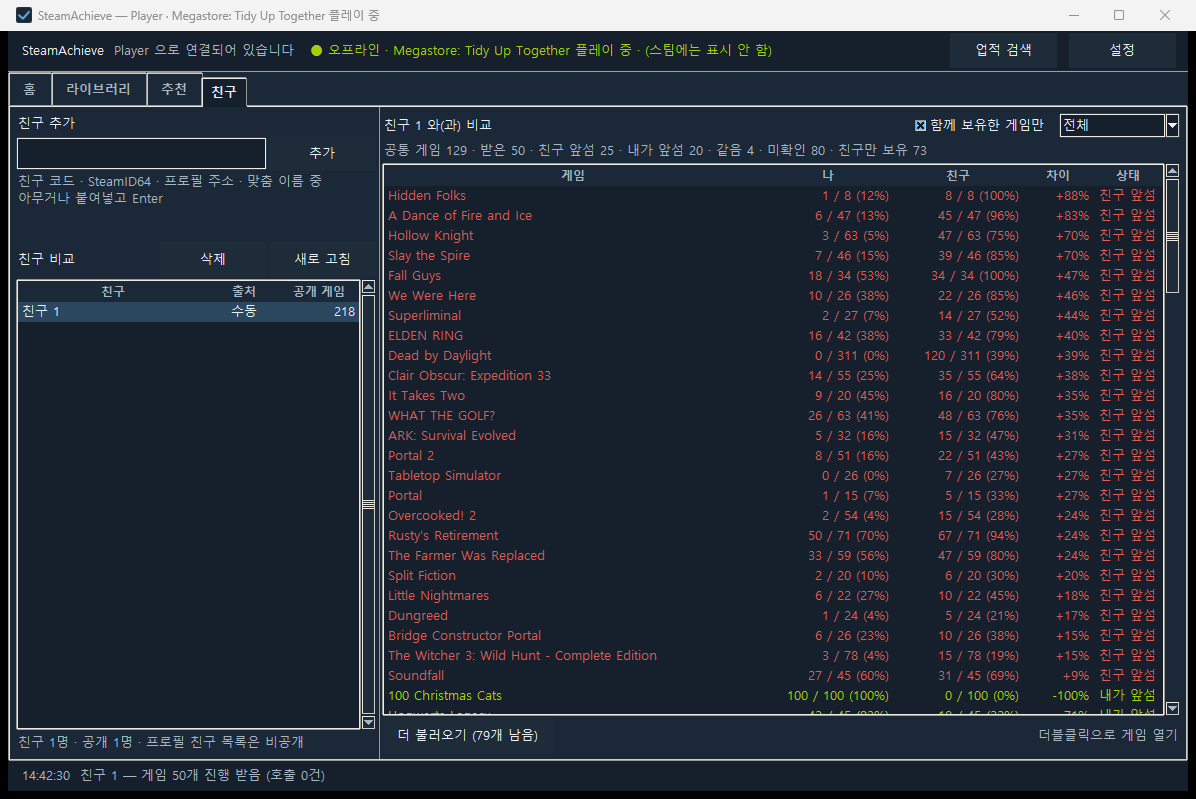
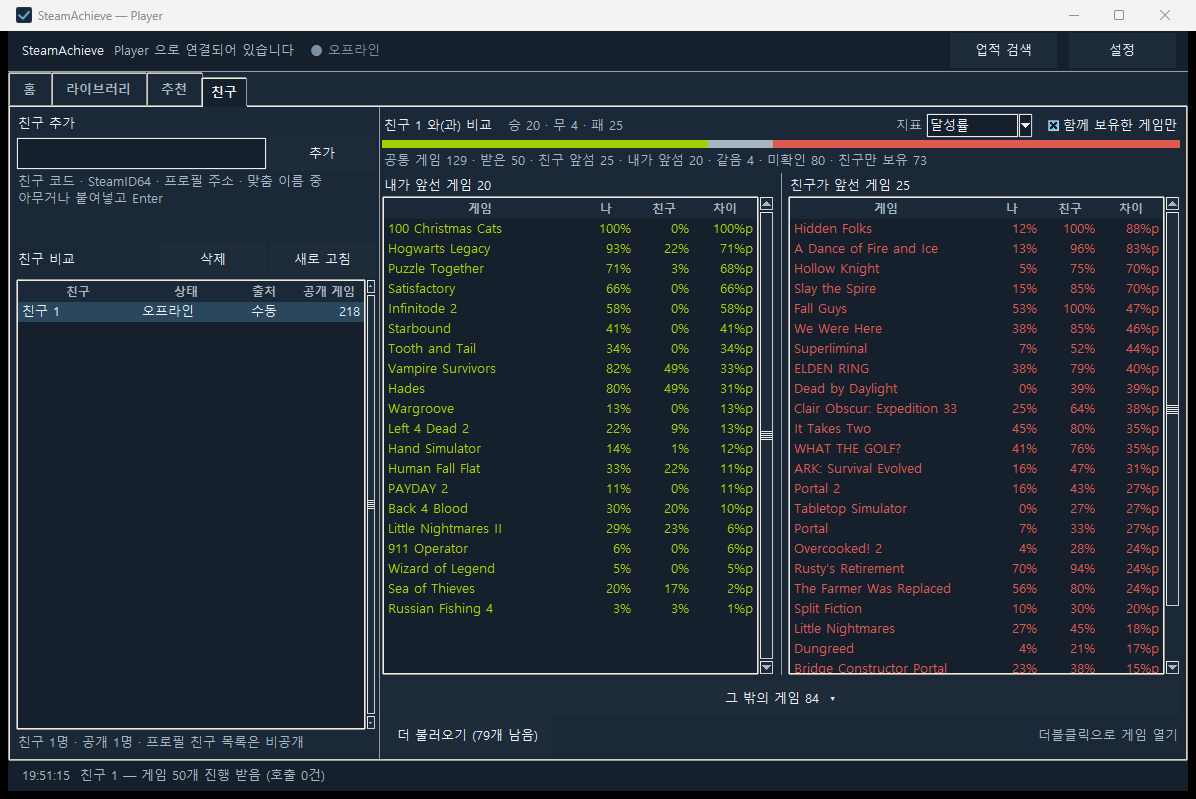
docs: v0.5.5 배포 문서

diff --git a/README.md b/README.md
@@ -45,11 +45,22 @@
 
 ## SmartScreen · 백신 경고
 
-이 앱은 PyInstaller 로 만든 단일 exe 이고 **코드 서명이 없는 개인 배포물**입니다. 처음 실행할 때 Windows SmartScreen 이 "알 수 없는 게시자" 경고를 띄울 수 있습니다.
+이 앱은 PyInstaller 로 만든 단일 exe 이고 **코드 서명이 없는 개인 배포물**입니다. 처음 실행하면 Windows 가 파란 창으로 **"Windows의 PC 보호 — 인식할 수 없는 앱의 시작을 차단했습니다"** 를 띄웁니다. 바이러스라는 뜻이 아니라 **처음 보는 파일이라 아직 평판이 없다**는 뜻입니다.
 
-- "추가 정보" → "실행" 을 누르면 됩니다.
-- 파일이 원본인지는 위의 SHA-256 해시로 확인할 수 있습니다.
-- 그래도 못 미더우면 실행하지 않으셔도 됩니다. 이 경고를 근본적으로 없애는 방법은 코드 서명 인증서 구입뿐이라 지금은 서명하지 않고 배포합니다.
+**실행하는 방법** — 그 창에는 [실행 안 함] 버튼만 크게 보입니다. 실행하려면:
+
+1. 창 왼쪽 위의 작은 글씨 **"추가 정보"** 를 누릅니다(버튼이 아니라 링크라 눈에 잘 안 띕니다).
+2. 그러면 아래에 **[실행]** 버튼이 나타납니다. 그것을 누릅니다.
+
+**zip 을 푼 뒤에도 막힌다면** — 인터넷에서 받은 zip 은 안에 든 파일까지 "차단됨" 표시가 붙습니다. zip 파일을 **오른쪽 클릭 → 속성 → 아래쪽 [차단 해제] 체크 → 확인** 한 뒤에 풀면 깔끔합니다.
+
+**받은 파일이 원본인지 확인** — 릴리스 노트의 SHA-256 과 비교하세요.
+
+```powershell
+Get-FileHash .\SteamAchieve.exe -Algorithm SHA256
+```
+
+**이 경고는 언제 사라지나요** — 서명이 없으면 평판이 **파일 하나(해시) 단위**로만 쌓이고, 새 버전을 내면 0 에서 다시 시작합니다. 즉 업데이트를 계속하는 동안에는 계속 보입니다([마이크로소프트 문서](https://learn.microsoft.com/windows/apps/package-and-deploy/smartscreen-reputation)). 사용자가 늘면 코드 서명이나 Microsoft Store 배포를 검토할 예정입니다. 그때까지는 위 방법으로 실행하시거나, 못 미더우면 실행하지 않으셔도 됩니다.
 
 ## 데이터와 삭제
 
@@ -96,7 +107,11 @@ The key is stored encrypted with Windows DPAPI in `%APPDATA%\SteamAchieve\creden
 Set **Game details** to Public in your Steam privacy settings; otherwise your own unlock status returns 403 and the app shows those items as "unknown" rather than 0%.
 
 ### SmartScreen / antivirus
-This is an unsigned single-file PyInstaller build by an individual developer, so SmartScreen may warn about an unknown publisher. Click "More info" → "Run anyway", and verify the SHA-256 hash above if in doubt.
+This is an unsigned single-file PyInstaller build by an individual developer, so Windows shows **"Windows protected your PC"** on first run. It is not a malware verdict — the file simply has no reputation yet.
+
+To run it: click the small **"More info"** link (top-left of that dialog — it is a link, not a button), then **"Run anyway"**. If the extracted files are still blocked, right-click the **zip** → Properties → tick **Unblock** → OK, then extract again. Verify the download with `Get-FileHash .\SteamAchieve.exe -Algorithm SHA256` against the hashes in the release notes.
+
+Unsigned files build SmartScreen reputation **per file hash**, so every new release starts from zero ([Microsoft docs](https://learn.microsoft.com/windows/apps/package-and-deploy/smartscreen-reputation)). Code signing or Store distribution will be considered once there are enough users.
 
 ### Data
 Everything lives in `%APPDATA%\SteamAchieve\`. Delete that folder to remove all data. The app never writes to the registry.

diff --git a/CHANGELOG.md b/CHANGELOG.md
@@ -2,6 +2,20 @@
 
 형식은 [Keep a Changelog](https://keepachangelog.com/ko/1.1.0/) 를 따르고, 버전은 [SemVer](https://semver.org/lang/ko/) 입니다.
 
+## [0.5.5] - 2026-09-06 — 친구 탭
+
+### 추가
+- **친구의 지금 상태**를 보여 줍니다. 친구 목록에 "상태" 열이 생겨 접속 상태나 **플레이 중인 게임 이름**이 나오고, 비교 제목에도 "OO 플레이 중"이 붙습니다. 친구 탭을 보고 있는 동안에만 2분마다 갱신하며, 친구 100명이 호출 1회입니다.
+- **비교 지표**를 고를 수 있습니다. **달성률**로 보면 짧은 게임이, **업적 개수**로 보면 큰 게임이 앞자리로 옵니다 — 같은 승패라도 "무엇이 크게 벌어졌나"의 답이 달라집니다.
+
+### 변경
+- 친구 비교가 **좌우 두 표**로 갈립니다. 왼쪽 "내가 앞선 게임", 오른쪽 "친구가 앞선 게임", 위에는 승-무-패 점수와 비율 막대. 같음·미확인·친구만 보유는 아래 "그 밖의 게임"으로 접히고, 승패가 아직 없으면 펼쳐 둡니다.
+- 승패 표의 차이 칸은 부호 없이 **벌어진 폭**만 보여 줍니다 — 표 제목이 이미 방향을 말합니다.
+- README 의 SmartScreen 안내를 실제 화면대로 다시 썼습니다("추가 정보"가 버튼이 아니라 작은 링크라는 점, zip 차단 해제, 왜 새 버전마다 다시 뜨는지).
+
+### 수정
+- **[새로 고침]이 친구의 업적 진행까지 다시 받습니다.** 지금까지는 목록과 보유 게임만 다시 받고 진행은 7일 캐시를 그대로 써서, 친구가 방금 깬 업적을 볼 방법이 아예 없었습니다(사용자 지적).
+
 ## [0.5.4] - 2026-09-06
 
 ### 변경

diff --git a/PRIVACY.md b/PRIVACY.md
@@ -1,6 +1,6 @@
 # SteamAchieve 개인정보 안내 · Privacy Notice
 
-버전 1.0 · 2026-09-05 · 앱 버전 0.5.4 기준
+버전 1.0 · 2026-09-05 · 앱 버전 0.5.5 기준
 
 ## 한국어
 
